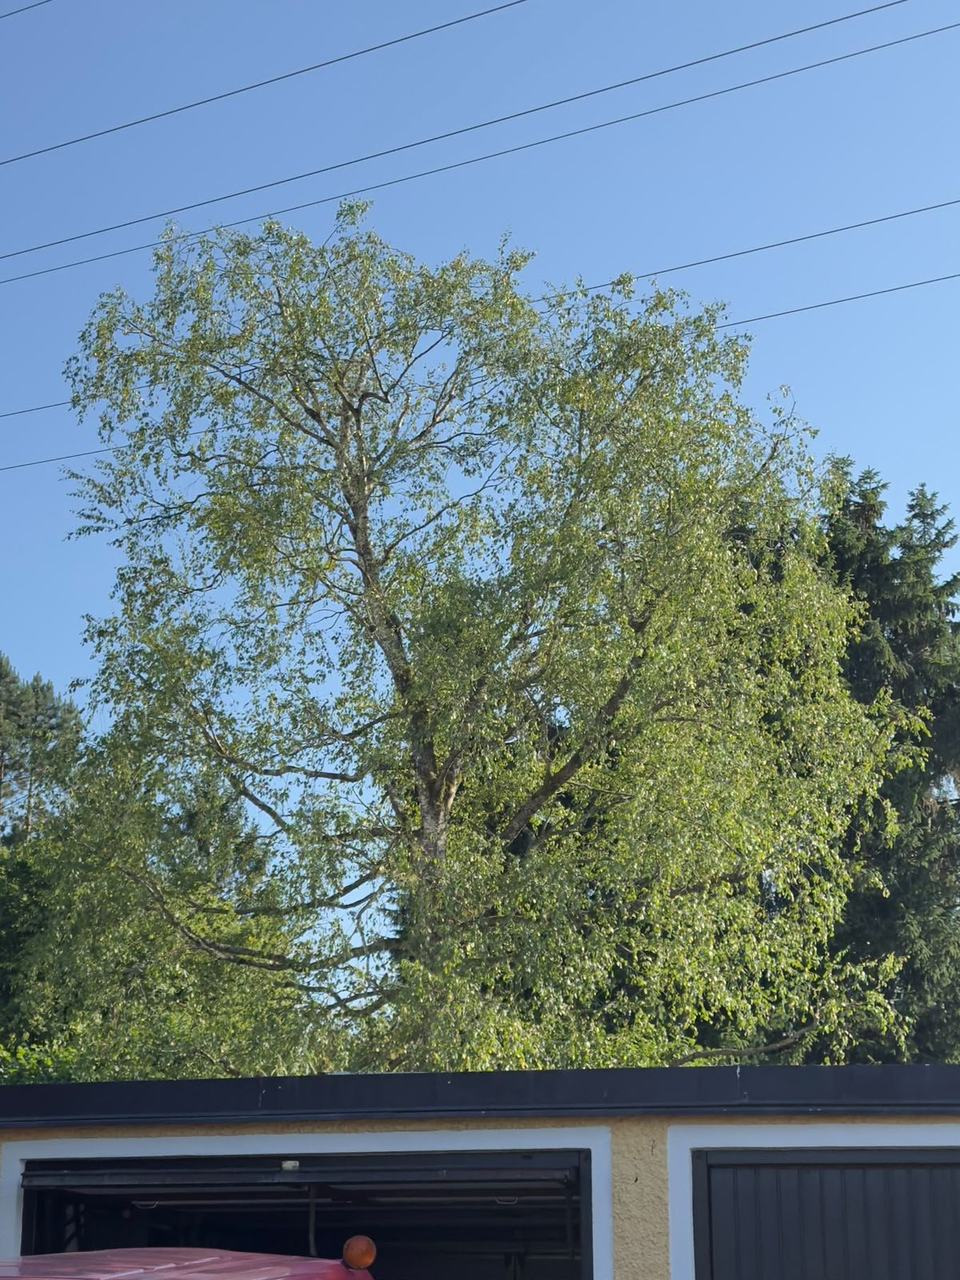
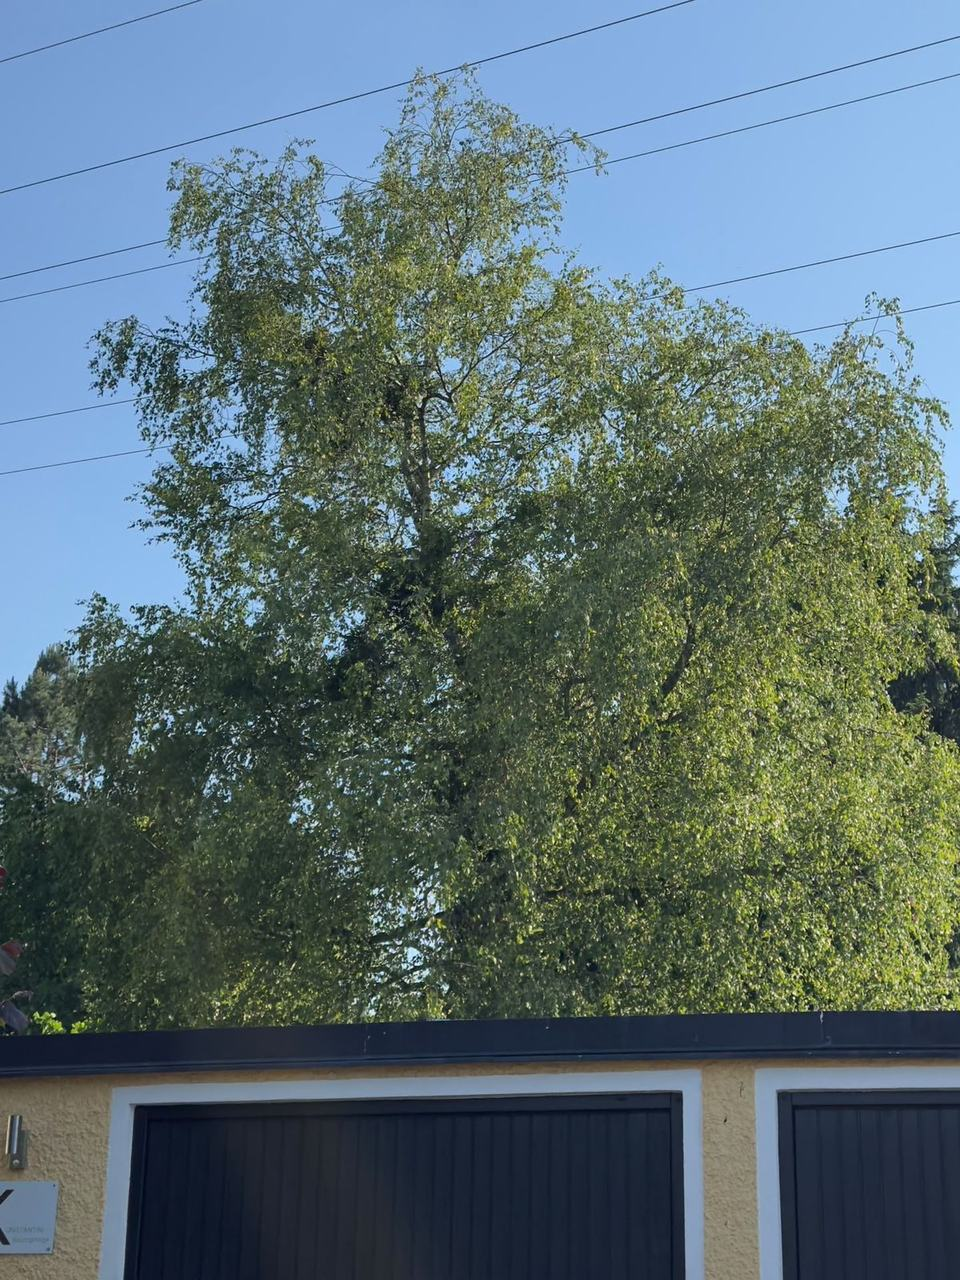
Vorher/Nachher: Birke getauscht
Claude-Session: https://claude.ai/code/session_01M8digNt9dwde97Tnq3P4ME

diff --git a/index.html b/index.html
@@ -119,12 +119,12 @@
         </article>
         <article class="ba-slide">
           <div class="ba" style="--pos:50%">
-            <img src="images/vn-birke-vorher.jpg" alt="Vorher: Birke vor der Auslichtung, sehr dichte Krone" loading="lazy" draggable="false">
-            <img class="ba-after" src="images/vn-birke-nachher.jpg" alt="Nachher: Birke nach der Auslichtung, lichtere Krone" loading="lazy" draggable="false">
+            <img src="images/vn-birke-vorher.jpg" alt="Vorher: Birke vor der Kronenpflege" loading="lazy" draggable="false">
+            <img class="ba-after" src="images/vn-birke-nachher.jpg" alt="Nachher: Birke nach der Kronenpflege" loading="lazy" draggable="false">
             <span class="ba-tag ba-tag-before">Vorher</span><span class="ba-tag ba-tag-after">Nachher</span>
             <div class="ba-handle" role="slider" tabindex="0" aria-label="Vorher/Nachher vergleichen" aria-valuemin="0" aria-valuemax="100" aria-valuenow="50"><span></span></div>
           </div>
-          <div class="ba-caption"><span>04</span><h3>Birke</h3><p>Kronenauslichtung</p></div>
+          <div class="ba-caption"><span>04</span><h3>Birke</h3><p>Kronenpflege</p></div>
         </article>
         </div>
         <div class="ba-controls">
